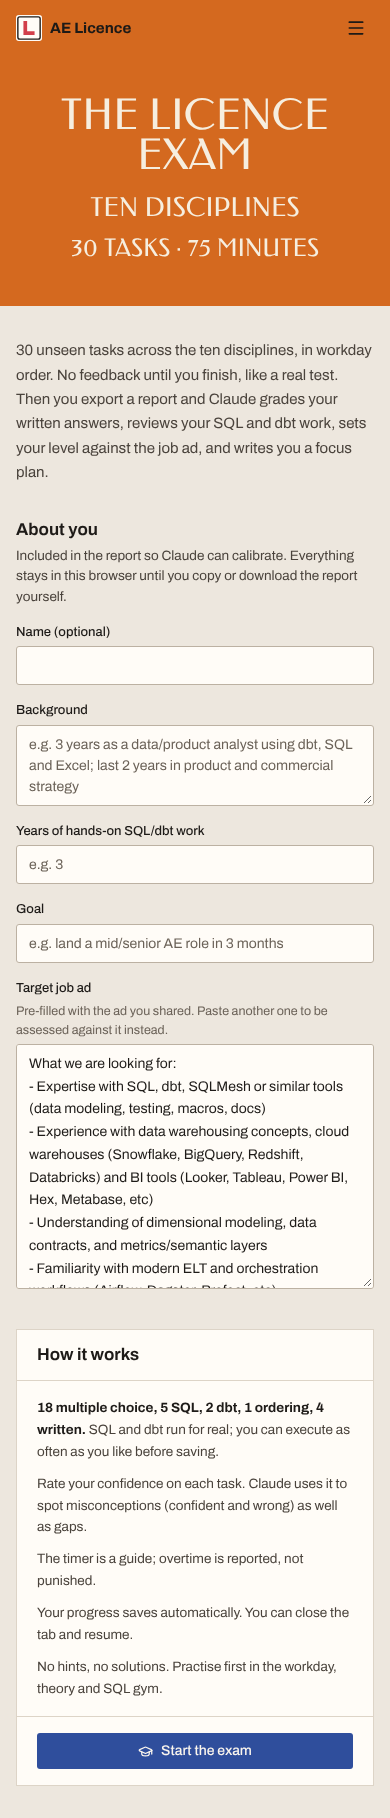
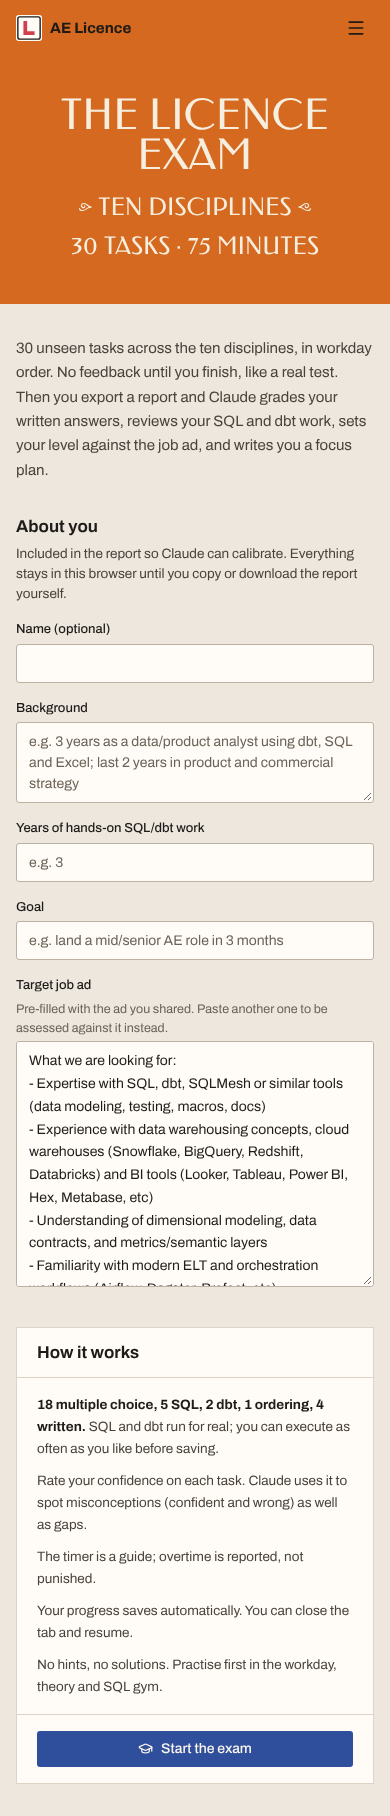
Dark-theme caption contrast on the poster orange; small swashes on mobile
Claude-Session: https://claude.ai/code/session_01L58MotJ2gxhCyHN3MALQZg

diff --git a/src/components/Poster.tsx b/src/components/Poster.tsx
@@ -1,7 +1,7 @@
 /** The 1912 poster lettering lockup: a large first line, a swash-flanked second line, a meta line. */
 export function Swash({ flip }: { flip?: boolean }) {
   return (
-    <svg viewBox="0 0 40 20" width="34" height="17" aria-hidden className={flip ? 'hidden shrink-0 -scale-x-100 sm:block' : 'hidden shrink-0 sm:block'} fill="none" stroke="currentColor" strokeWidth="2.2" strokeLinecap="round">
+    <svg viewBox="0 0 40 20" aria-hidden className={flip ? 'h-[10px] w-5 shrink-0 -scale-x-100 sm:h-[17px] sm:w-[34px]' : 'h-[10px] w-5 shrink-0 sm:h-[17px] sm:w-[34px]'} fill="none" stroke="currentColor" strokeWidth="2.2" strokeLinecap="round">
       <path d="M38 10c-6 0-8-7-14-7-5 0-7 4-4 7 3 3 7 0 5-2" />
       <path d="M38 10c-8 0-10 7-17 7-4 0-6-2-6-4" />
     </svg>
@@ -14,7 +14,7 @@ export function PosterLettering({ id, title, subtitle, meta }: { id?: string; ti
       <h1 id={id} className="font-display mx-auto max-w-[16ch] text-[42px] leading-[0.95] text-balance uppercase sm:text-[60px] lg:text-[76px]">
         {title}
       </h1>
-      <p className="font-display mt-4 flex items-center justify-center gap-2 text-[26px] leading-tight uppercase sm:gap-3 sm:text-[36px]">
+      <p className="font-display mt-4 flex items-center justify-center gap-1.5 text-[24px] leading-tight uppercase sm:gap-3 sm:text-[36px]">
         <Swash /> <span className="text-balance">{subtitle}</span> <Swash flip />
       </p>
       <p className="font-display mt-1.5 text-[24px] uppercase tnum sm:text-[28px]">{meta}</p>

diff --git a/src/index.css b/src/index.css
@@ -89,7 +89,7 @@
     --ink-3: #a59885;
     --rail: #c9621c;
     --rail-ink: #160f0a;
-    --rail-ink-2: #24170e;
+    --rail-ink-2: #160f0a;
     --rail-hover: #d5712b;
     --rail-active: #f3ebdc;
     --rail-active-ink: #160f0a;
@@ -153,7 +153,7 @@
   --ink-3: #a59885;
   --rail: #c9621c;
   --rail-ink: #160f0a;
-  --rail-ink-2: #24170e;
+  --rail-ink-2: #160f0a;
   --rail-hover: #d5712b;
   --rail-active: #f3ebdc;
   --rail-active-ink: #160f0a;
